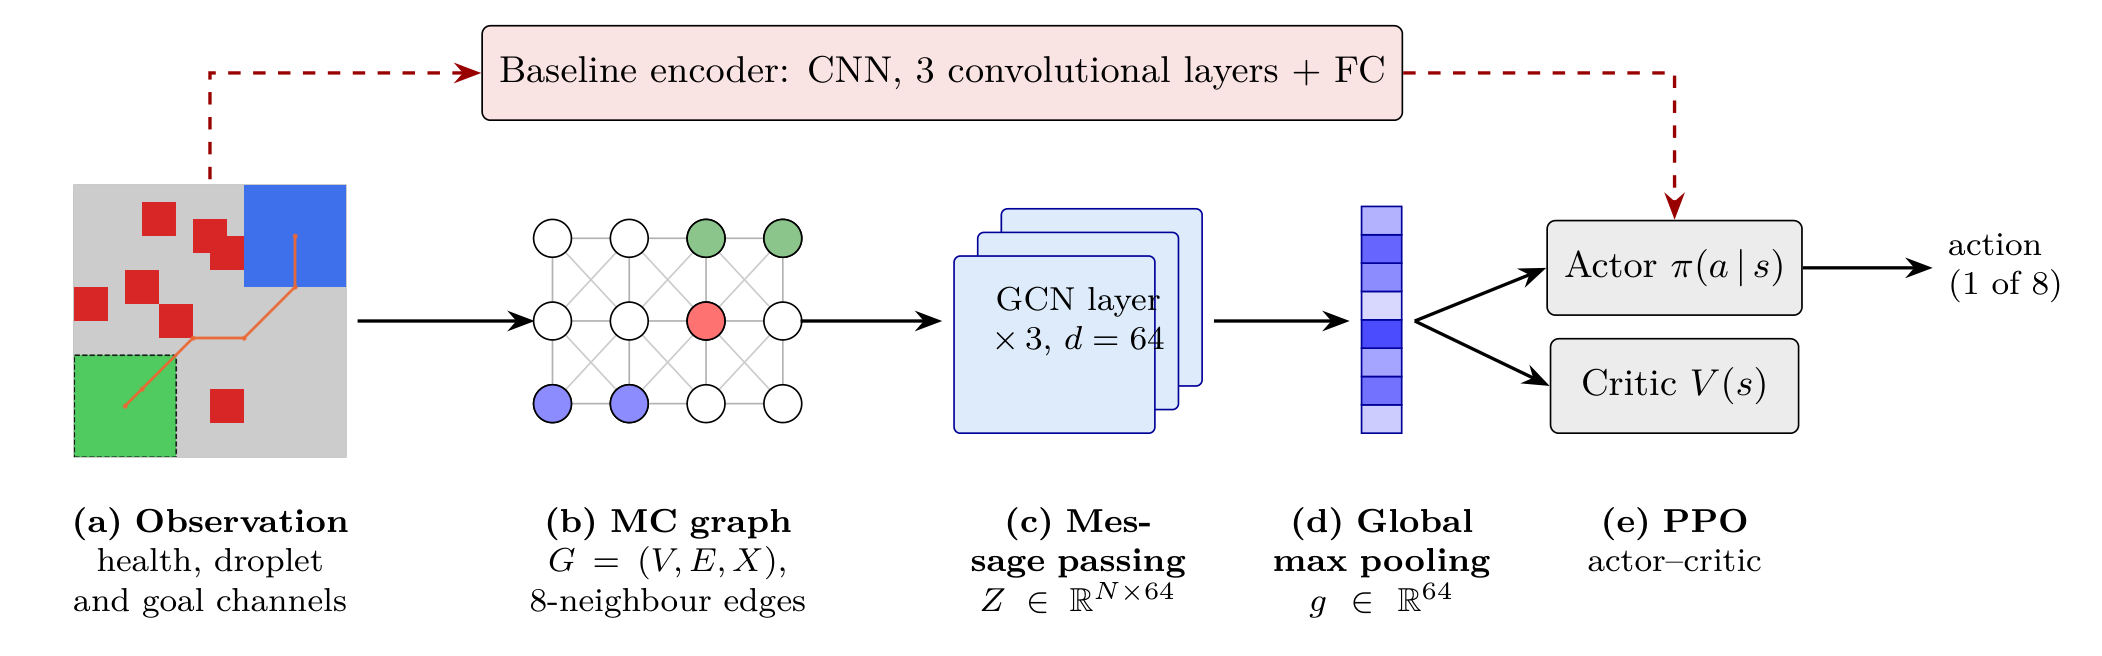
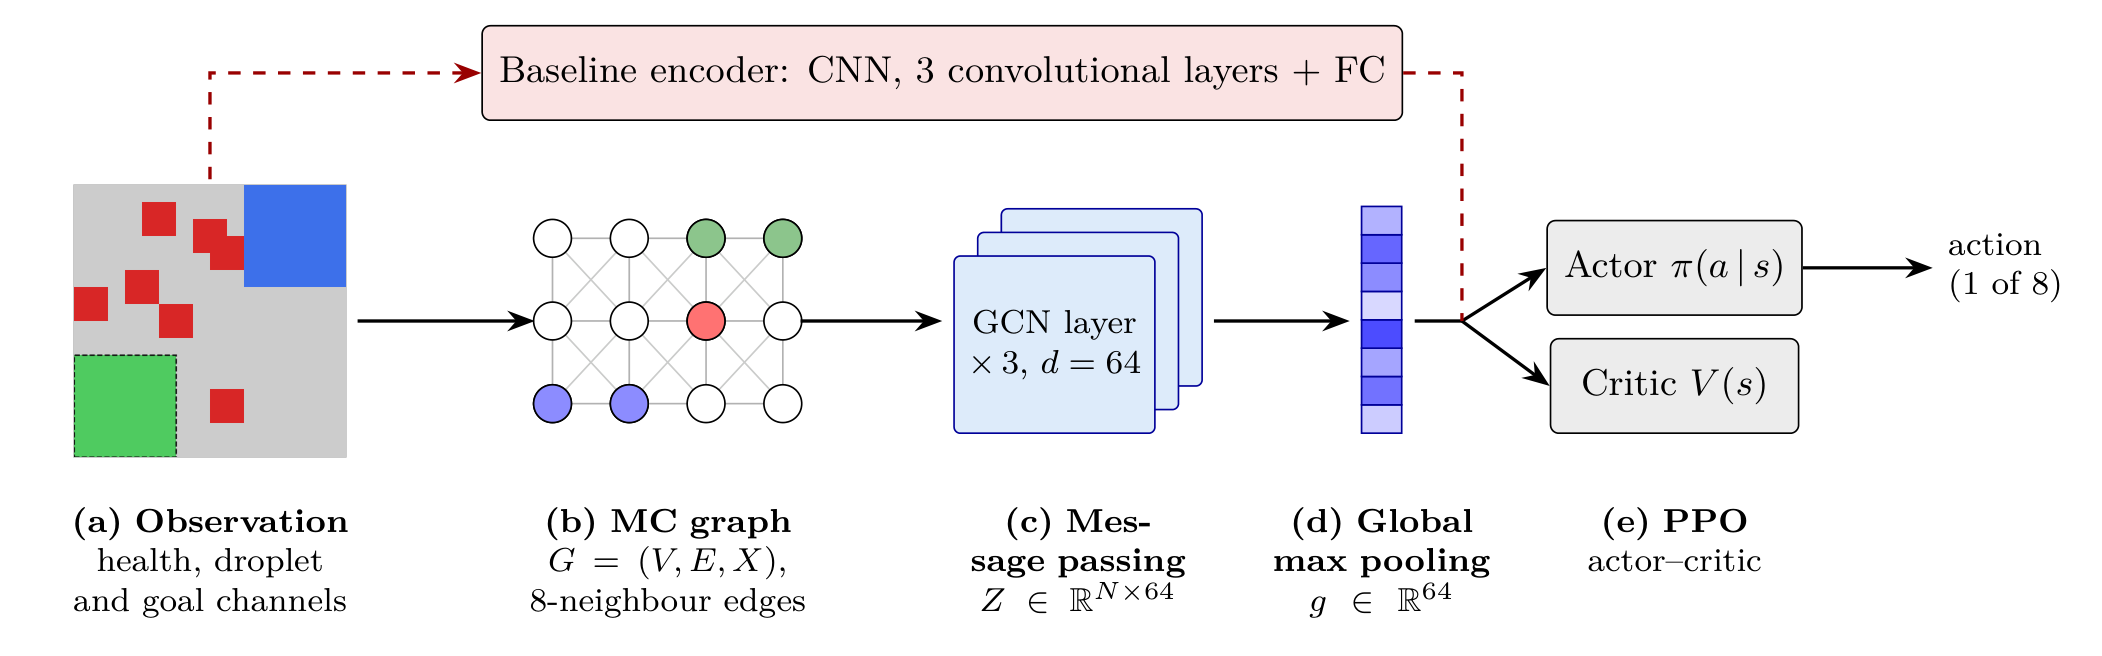
Report: apply verification findings
- Define the direction-aware graph convolution (Eq. 5) and list it in Table 4.
- State the single-seed scope in the abstract and conclusion; full-scale
  protocol (five seeds, mean and standard deviation) in the procedure text.
- Cite Table I of the base paper explicitly; reference Figure 1 and Table 1.
- Pipeline figure: clean observation panel (new routing_observation.png),
  label centred on the front GCN card.
- Remove the unused four-configuration plot; make_figures.py no longer
  copies it; FILES.txt updated; -ize spelling.

Claude-Session: https://claude.ai/code/session_014xH5crTvZeSKuQ4dTqAQ6T

diff --git a/report/main.tex b/report/main.tex
@@ -103,11 +103,12 @@ tested simulation and training framework, validated against the authors'
 trained agent, and investigates a topology-aware alternative in which each MC
 is a graph node connected to its eight neighbours, a Graph Neural Network
 (GNN) encodes the graph, and global max pooling provides the state
-representation for the same PPO learner. Preliminary results on
-$16\times16$ chips show that an isotropic graph convolutional network does not
-learn to route, whereas a direction-aware graph convolution achieves a
-99.4\% success rate, compared with 96.2\% for the CNN baseline, with
-substantially fewer encoder parameters.
+representation for the same PPO learner. Preliminary results from a
+single-seed experiment on $16\times16$ chips show that an isotropic graph
+convolutional network did not learn to route within the training budget,
+whereas a direction-aware graph convolution reached a 99.4\% success rate,
+compared with 96.2\% for the CNN baseline, with substantially fewer encoder
+parameters.
 
 % ================================================================= 1 INTRODUCTION
 \section{Introduction}\label{sec:intro}
@@ -279,6 +280,8 @@ where $V$ are the MC nodes, $E$ the spatial adjacencies and $X$ the three
 baseline features per node. The problem is to determine whether this
 representation enables PPO to learn reliable and efficient routing policies,
 and how it compares with the CNN--PPO baseline under identical conditions.
+Figure~\ref{fig:problem} shows a routing job in the simulator and the eight
+movement actions.
 
 \begin{figure}[H]
   \centering
@@ -356,7 +359,7 @@ stages (b)--(d) with the CNN encoder; all other components are shared.
   lab/.style={align=center, font=\footnotesize, text width=2.9cm},
   flow/.style={->, thick}]
   % (a) observation
-  \node[inner sep=0pt, draw=gray!60] (obs) at (0,0) {\includegraphics[width=2.3cm]{figures/routing_example.png}};
+  \node[inner sep=0pt, draw=gray!60] (obs) at (0,0) {\includegraphics[width=2.3cm]{figures/routing_observation.png}};
   \node[lab, anchor=north] at (0,-1.45) {\textbf{(a) Observation}\\ health, droplet and goal channels};
   % (b) MC graph (4 x 3 excerpt)
   \begin{scope}[shift={(2.9,-0.7)}]
@@ -376,7 +379,7 @@ stages (b)--(d) with the CNN encoder; all other components are shared.
   % (c) three graph-convolution layers
   \foreach \i in {2,1,0}
     \draw[fill=prop, draw=blue!60!black, rounded corners=1.5pt] (6.3+0.2*\i,-0.95+0.2*\i) rectangle ++(1.7,1.5);
-  \node[align=center, font=\footnotesize] at (7.35,0.0) {GCN layer\\ $\times\,3$, $d=64$};
+  \node[align=center, font=\footnotesize] at (7.15,-0.2) {GCN layer\\ $\times\,3$, $d=64$};
   \node[lab, anchor=north] at (7.35,-1.45) {\textbf{(c) Message passing}\\ $Z\in\mathbb{R}^{N\times 64}$};
   % (d) global max pooling: pooled vector
   \foreach \k/\s in {0/20,1/55,2/35,3/70,4/15,5/45,6/60,7/30}
@@ -467,8 +470,19 @@ $L=3$ layers, hidden dimension $d=64$ and ReLU activations:
 producing node embeddings $Z=H^{(L)}\in\mathbb{R}^{N\times d}$. Aggregation is
 implemented as a sparse matrix product over the explicit edge list and runs
 on CPU and GPU without an additional graph library. The number of layers and
-the hidden dimension are design choices of this work, as the methodology does
-not prescribe them.
+the hidden dimension are design choices of this work (Table~\ref{tab:params}).
+
+\paragraph{Direction-aware message passing:}
+The direction-aware configuration replaces each GCN layer with a relational
+graph convolution \cite{schlichtkrull2018} that has a separate weight matrix
+for the node itself and for each of the eight neighbour directions $r$:
+\begin{equation}
+  h_i^{(l+1)} = \mathrm{ReLU}\Big(W_0^{(l)} h_i^{(l)} + \sum_{r=1}^{8}\sum_{j\in\mathcal{N}_r(i)} W_r^{(l)} h_j^{(l)} + b^{(l)}\Big),
+\end{equation}
+where $\mathcal{N}_r(i)$ contains the neighbour of MC $i$ in direction $r$,
+if it exists. Edge directions are derived from the node indices, so the graph
+carries no edge attributes, and messages are summed without degree
+normalization. With $L=3$ and $d=64$, this encoder has 76\,k parameters.
 
 \paragraph{Global max pooling:}
 The graph embedding is the element-wise maximum over all nodes,
@@ -479,9 +493,10 @@ which yields a fixed-size vector for any chip size.
 
 \paragraph{Actor--critic:}
 As in the baseline, linear heads on $g$ produce the actor's probabilities over
-the eight actions and the critic's value estimate $V(s)$. PPO, its settings
-and the training schedule are unchanged. The GNN encoder has 8.6\,k
-parameters, compared with 29.7\,M for the Table~I CNN.
+the eight actions and the critic's value estimate $V(s)$. The GNN encoder has
+8.6\,k parameters, compared with 29.7\,M for the CNN of Table~I in
+\cite{elfar2023}. Table~\ref{tab:compare} summarizes the differences between
+the baseline and the proposed state encoder.
 
 \begin{table}[H]
 \centering\small
@@ -489,7 +504,7 @@ parameters, compared with 29.7\,M for the Table~I CNN.
 \toprule
 Component & Baseline (CNN--PPO) & Proposed (GNN--PPO) \\ \midrule
 State representation & 3-channel grid & MC graph $G=(V,E,X)$ \\
-Encoder & CNN (Table I) & GCN, 3 layers, $d=64$ \\
+Encoder & CNN (Table~I of \cite{elfar2023}) & GCN, 3 layers, $d=64$ \\
 Spatial structure & implicit, via $3\times3$ convolutions & explicit 8-neighbour edges \\
 Features & health, droplet, goal & health, droplet, goal \\
 Readout & flatten + FC 256 & global max pooling \\
@@ -507,10 +522,13 @@ parallel environments and the policy is updated with PPO; the policy is then
 evaluated on a fixed set of evaluation jobs, and the learning rate is decayed
 whenever the evaluation success rate exceeds 99\%. The GNN configurations
 inherit every setting of the corresponding CNN configuration and differ only
-in the state encoder, which is enforced by automated tests. After training,
-all configurations are evaluated on the same 500 held-out routing jobs,
-generated with a random seed distinct from those used for training and model
-selection, using the metrics defined in Table~\ref{tab:metrics}.
+in the state encoder, which is enforced by automated tests. After the final
+epoch, the final model of each configuration is evaluated with a deterministic
+policy on the same 500 held-out routing jobs, generated with a random seed
+distinct from the training seeds and from the seed of the per-epoch evaluation
+jobs, using the metrics defined in Table~\ref{tab:metrics}. The full-scale
+comparison trains each configuration with five random seeds on $30\times30$
+chips and reports each metric as the mean and standard deviation over seeds.
 
 \begin{figure}[H]
 \centering
@@ -523,7 +541,7 @@ selection, using the metrics defined in Table~\ref{tab:metrics}.
   flow/.style={->, thick}]
   \node[term] (start) {Start};
   \node[data, below=of start] (cfg) {Configuration: encoder, PPO settings, seed};
-  \node[proc, below=of cfg] (init) {Initialise 8 parallel environments\\ and the policy network};
+  \node[proc, below=of cfg] (init) {Initialize 8 parallel environments\\ and the policy network};
   \node[proc, below=of init] (jobs) {Resample routing jobs};
   \node[proc, below=of jobs] (train) {Collect rollouts and update the policy with\\ PPO (one epoch of environment steps)};
   \node[proc, below=of train] (eval) {Evaluate on the fixed evaluation jobs;\\ save the model and the best model};
@@ -601,13 +619,15 @@ PPO & 8 envs; 64 steps; minibatch 32; 4 epochs; $\gamma=0.99$; $\lambda=0.95$ & 
 Epoch / evaluation & $2^{14}$ steps; 500 jobs ($16\times16$ study: $2^{13}$ steps, 300 jobs, 40 epochs) & paper / assumed \\
 Graph connectivity & 8 neighbours, both directions, no edge attributes & methodology \\
 GNN & GCN, 3 layers, $d=64$, ReLU & assumed \\
+Direction-aware GNN & 3 layers, $d=64$, ReLU; separate weights for the node and each of the 8 directions & assumed \\
 Readout & global max pooling & methodology \\
 Seeds / repeats & 1 (preliminary); 5 planned, as in the paper & assumed / paper \\
 \bottomrule
 \end{tabularx}
-\caption{Implementation parameters and their source. Every parameter in the
-  code and configuration files carries the same tag (paper, reference code,
-  methodology or assumed).}
+\caption{Implementation parameters and their source: the base paper (paper),
+  the authors' reference code (reference code), the project's GNN methodology
+  specification (methodology) or a design choice of this work (assumed). The
+  code and configuration files carry the same tags.}
 \label{tab:params}
 \end{table}
 
@@ -703,9 +723,8 @@ both to the same graph embedding. The policy therefore receives identical
 inputs for jobs that require mirror-image actions. This property is verified
 by an automated test.
 
-Replacing only the message-passing layer with a direction-aware (relational)
-GCN \cite{schlichtkrull2018}, which assigns a separate weight matrix to each
-of the eight neighbour directions, removes this symmetry. The resulting
+Replacing only the message-passing layer with the direction-aware graph
+convolution of Section~\ref{sec:method} removes this symmetry. The resulting
 configuration achieved a success rate of 99.4\% at 4.89 mean cycles and
 converged within 74\,k environment steps, compared with 96.2\%, 5.94 cycles
 and 221\,k steps for the CNN--PPO baseline, while using 76\,k encoder
@@ -723,12 +742,12 @@ the base paper has been reimplemented and validated against the authors'
 trained agent and the bioassay results of the paper; the MC graph
 representation and the GNN--PPO pipeline have been implemented with automated
 validation; and a first controlled comparison has been carried out on
-$16\times16$ chips. The preliminary results indicate that the proposed
-graph representation is effective only when the message-passing layer is
-direction-aware: the isotropic GCN with global max pooling did not learn to
-route, whereas the direction-aware GCN exceeded the CNN baseline in success
-rate, routing cycles and convergence speed with substantially fewer encoder
-parameters. Future work will repeat the comparison at the scale of the base
+$16\times16$ chips. In this single-seed preliminary comparison, the
+isotropic GCN with global max pooling did not learn to route, whereas the
+direction-aware GCN with global max pooling exceeded the CNN baseline in
+success rate, routing cycles and convergence speed with substantially fewer
+encoder parameters; these results indicate that the message-passing layer
+must be sensitive to direction and remain to be confirmed at full scale. Future work will repeat the comparison at the scale of the base
 paper ($30\times30$ chips, five seeds) on the GPU server; evaluate routing
 success, routing cycles, convergence and computational cost against the
 baseline; study generalization across chip sizes, which the size-independent

diff --git a/report/make_figures.py b/report/make_figures.py
@@ -6,12 +6,14 @@
   at its start (droplet blue, goal green, fully degraded MCs red, routing
   zone light grey), with the path of the trained direction-aware GNN agent
   (runs/gnn_dirgcn_16x16/seed_0) in orange;
-* figures/success_rate_vs_env_steps.png: copied from results/figures/.
+* figures/routing_observation.png: the same job without the path (the
+  observation panel of the pipeline figure);
+* figures/learning_curves.png: per-epoch evaluation success of the three
+  compared configurations.
 """
 
 from __future__ import annotations
 
-import shutil
 from pathlib import Path
 
 import numpy as np
@@ -42,16 +44,20 @@ def routing_example() -> None:
     path = np.array([((d.xa + d.xb) / 2, (d.ya + d.yb) / 2) for d in info["path"]])
     goal = info["path"][-1]
 
-    fig = Figure(figsize=(3.2, 3.2), dpi=200)
-    ax = fig.add_axes((0, 0, 1, 1))
-    ax.imshow(start, extent=(-0.5, 15.5, -0.5, 15.5), origin="upper", interpolation="nearest")
-    ax.plot(path[:, 0], path[:, 1], color="#eb6834", lw=2.2, marker="o", ms=3)
-    ax.add_patch(__import__("matplotlib.patches", fromlist=["Rectangle"]).Rectangle(
-        (goal.xa - 0.5, goal.ya - 0.5), goal.width, goal.height, fill=False, ec="#0b0b0b", lw=1.2, ls="--"))
-    ax.set_xlim(-0.5, 15.5)
-    ax.set_ylim(-0.5, 15.5)
-    ax.set_axis_off()
-    fig.savefig(FIG / "routing_example.png")
+    from matplotlib.patches import Rectangle
+
+    for name, with_path in (("routing_example.png", True), ("routing_observation.png", False)):
+        fig = Figure(figsize=(3.2, 3.2), dpi=200)
+        ax = fig.add_axes((0, 0, 1, 1))
+        ax.imshow(start, extent=(-0.5, 15.5, -0.5, 15.5), origin="upper", interpolation="nearest")
+        if with_path:
+            ax.plot(path[:, 0], path[:, 1], color="#eb6834", lw=2.2, marker="o", ms=3)
+        ax.add_patch(Rectangle((goal.xa - 0.5, goal.ya - 0.5), goal.width, goal.height,
+                               fill=False, ec="#0b0b0b", lw=1.2, ls="--"))
+        ax.set_xlim(-0.5, 15.5)
+        ax.set_ylim(-0.5, 15.5)
+        ax.set_axis_off()
+        fig.savefig(FIG / name)
     print(f"routing_example.png: {info['cycles']} cycles, success={info['success']}")
 
 
@@ -94,4 +100,3 @@ if __name__ == "__main__":
     FIG.mkdir(parents=True, exist_ok=True)
     routing_example()
     learning_curves()
-    shutil.copy(ROOT / "results" / "figures" / "success_rate_vs_env_steps.png", FIG)

diff --git a/report/figures/tikz/fig2_gnn_ppo_pipeline.tex b/report/figures/tikz/fig2_gnn_ppo_pipeline.tex
@@ -18,7 +18,7 @@
   lab/.style={align=center, font=\footnotesize, text width=2.9cm},
   flow/.style={->, thick}]
   % (a) observation
-  \node[inner sep=0pt, draw=gray!60] (obs) at (0,0) {\includegraphics[width=2.3cm]{../routing_example.png}};
+  \node[inner sep=0pt, draw=gray!60] (obs) at (0,0) {\includegraphics[width=2.3cm]{../routing_observation.png}};
   \node[lab, anchor=north] at (0,-1.45) {\textbf{(a) Observation}\\ health, droplet and goal channels};
   % (b) MC graph (4 x 3 excerpt)
   \begin{scope}[shift={(2.9,-0.7)}]
@@ -38,7 +38,7 @@
   % (c) three graph-convolution layers
   \foreach \i in {2,1,0}
     \draw[fill=prop, draw=blue!60!black, rounded corners=1.5pt] (6.3+0.2*\i,-0.95+0.2*\i) rectangle ++(1.7,1.5);
-  \node[align=center, font=\footnotesize] at (7.35,0.0) {GCN layer\\ $\times\,3$, $d=64$};
+  \node[align=center, font=\footnotesize] at (7.15,-0.2) {GCN layer\\ $\times\,3$, $d=64$};
   \node[lab, anchor=north] at (7.35,-1.45) {\textbf{(c) Message passing}\\ $Z\in\mathbb{R}^{N\times 64}$};
   % (d) global max pooling: pooled vector
   \foreach \k/\s in {0/20,1/55,2/35,3/70,4/15,5/45,6/60,7/30}
@@ -52,12 +52,13 @@
   \draw[flow] (1.25,0) -- (2.75,0);
   \draw[flow] (5.0,0) -- (6.2,0);
   \draw[flow] (8.5,0) -- (9.65,0);
-  \draw[flow] (10.2,0) -- (actor.west);
-  \draw[flow] (10.2,0) -- (critic.west);
+  \draw[thick] (10.2,0) -- (10.6,0);
+  \draw[flow] (10.6,0) -- (actor.west);
+  \draw[flow] (10.6,0) -- (critic.west);
   \draw[flow] (actor.east) -- ++(1.1,0) node[right, font=\footnotesize, align=left] {action\\(1 of 8)};
   % baseline branch
   \node[blk=base, minimum width=5.6cm] (cnn) at (6.2,2.1) {Baseline encoder: CNN, 3 convolutional layers + FC};
   \draw[flow, dashed, red!60!black] (0,1.2) |- (cnn.west);
-  \draw[flow, dashed, red!60!black] (cnn.east) -| (actor.north);
+  \draw[thick, dashed, red!60!black] (cnn.east) -| (10.6,0);
 \end{tikzpicture}
 \end{document}

diff --git a/report/figures/tikz/fig4_training_flowchart.tex b/report/figures/tikz/fig4_training_flowchart.tex
@@ -23,7 +23,7 @@
   flow/.style={->, thick}]
   \node[term] (start) {Start};
   \node[data, below=of start] (cfg) {Configuration: encoder, PPO settings, seed};
-  \node[proc, below=of cfg] (init) {Initialise 8 parallel environments\\ and the policy network};
+  \node[proc, below=of cfg] (init) {Initialize 8 parallel environments\\ and the policy network};
   \node[proc, below=of init] (jobs) {Resample routing jobs};
   \node[proc, below=of jobs] (train) {Collect rollouts and update the policy with\\ PPO (one epoch of environment steps)};
   \node[proc, below=of train] (eval) {Evaluate on the fixed evaluation jobs;\\ save the model and the best model};
